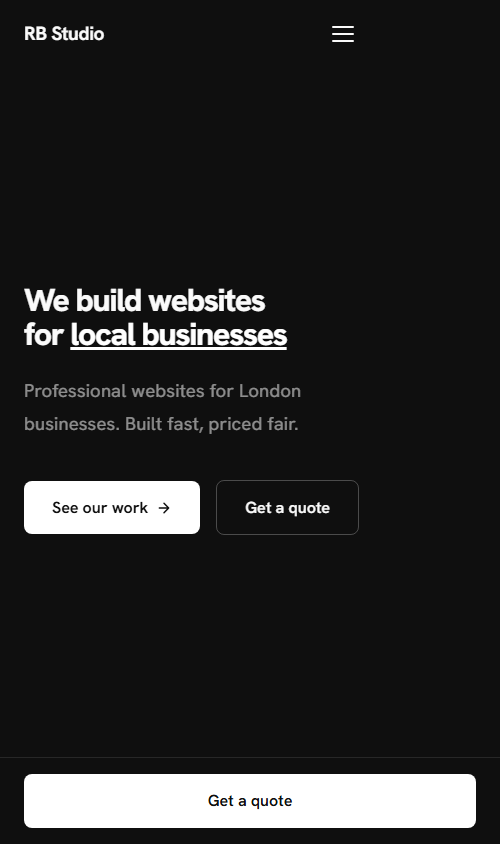
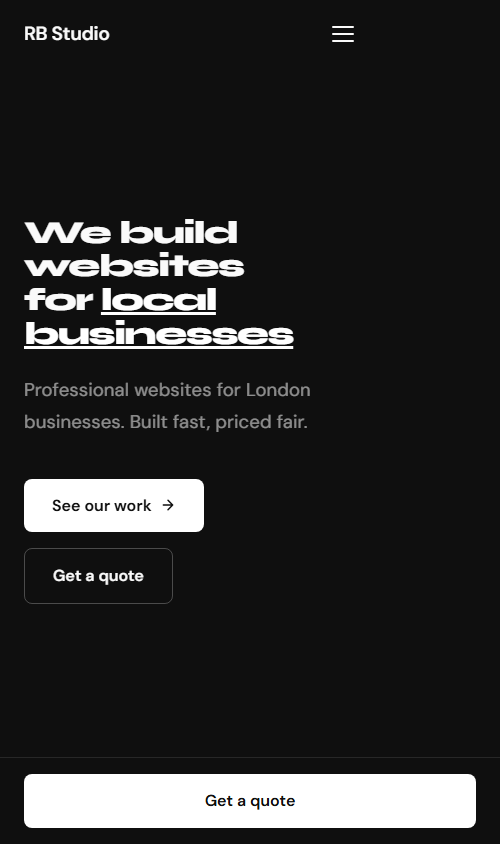
Switch to Syne headings and DM Sans body
Load Syne 700/800 and DM Sans 400/500/600 from Google Fonts, set the body
to DM Sans, and apply Syne to headings and the display elements. Refresh
renders.

diff --git a/index.html b/index.html
@@ -8,7 +8,7 @@
   <link rel="icon" type="image/png" href="RB Favicon.png" />
   <link rel="preconnect" href="https://fonts.googleapis.com" />
   <link rel="preconnect" href="https://fonts.gstatic.com" crossorigin />
-  <link href="https://fonts.googleapis.com/css2?family=Hanken+Grotesk:wght@400;600;700;800&display=swap" rel="stylesheet" />
+  <link href="https://fonts.googleapis.com/css2?family=Syne:wght@700;800&family=DM+Sans:wght@400;500;600&display=swap" rel="stylesheet">
   <script>document.documentElement.classList.add('js');</script>
   <style>
     *, *::before, *::after {
@@ -61,10 +61,14 @@
     body {
       background: var(--bg);
       color: var(--text);
-      font-family: 'Hanken Grotesk', -apple-system, BlinkMacSystemFont, 'Segoe UI', sans-serif;
+      font-family: 'DM Sans', -apple-system, BlinkMacSystemFont, sans-serif;
       font-size: 16px;
       line-height: 1.6;
       -webkit-font-smoothing: antialiased;
+    }
+
+    h1, h2, h3, .hero-title, .section-title, .pricing-price, .why-number, .process-num {
+      font-family: 'Syne', sans-serif;
     }
 
     /* ── NAV ── */
